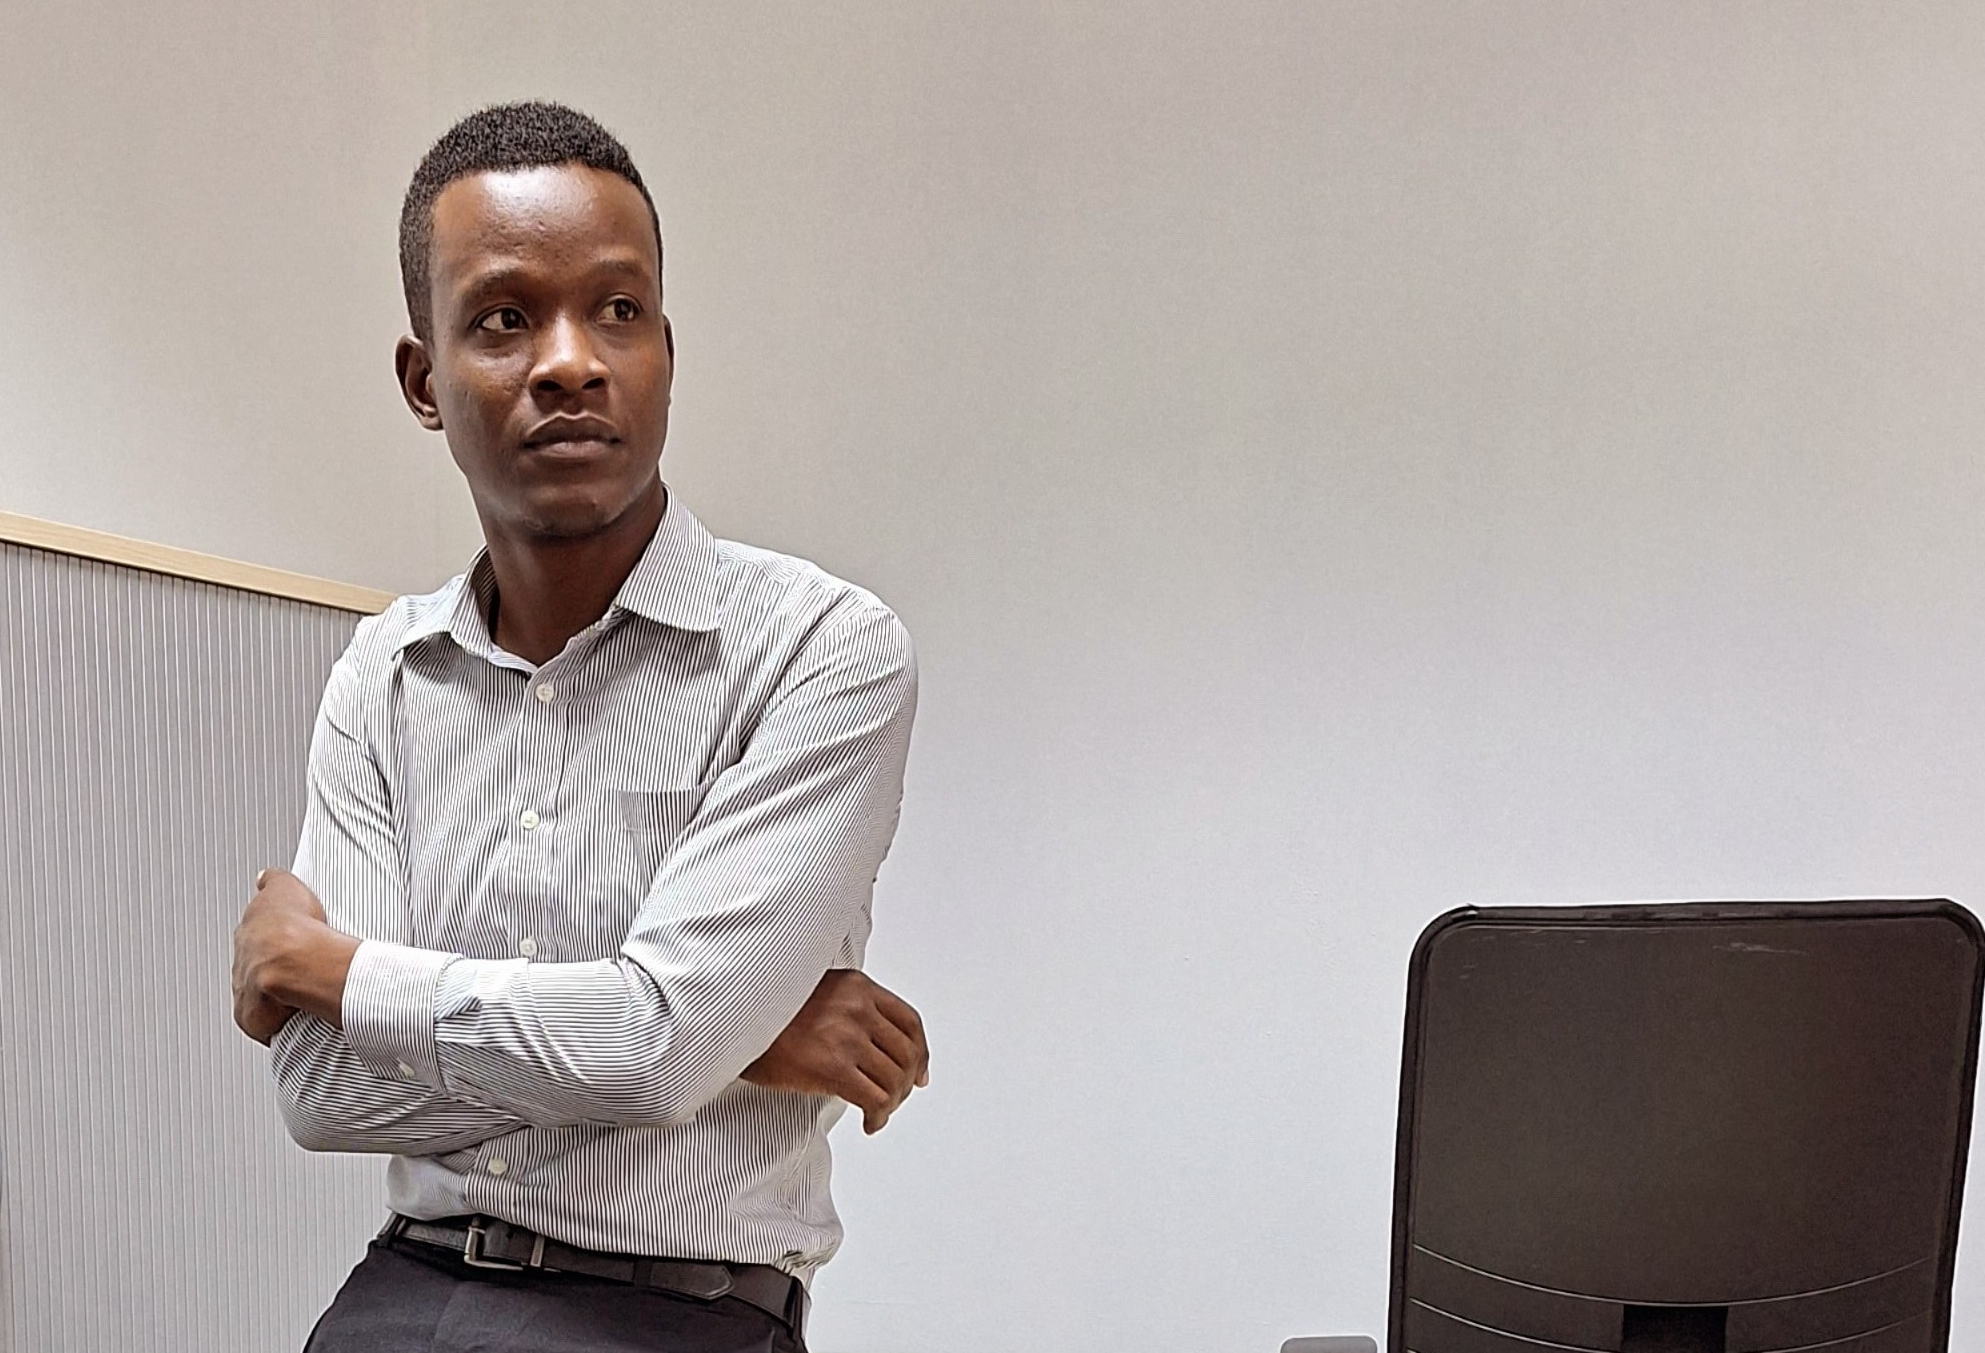
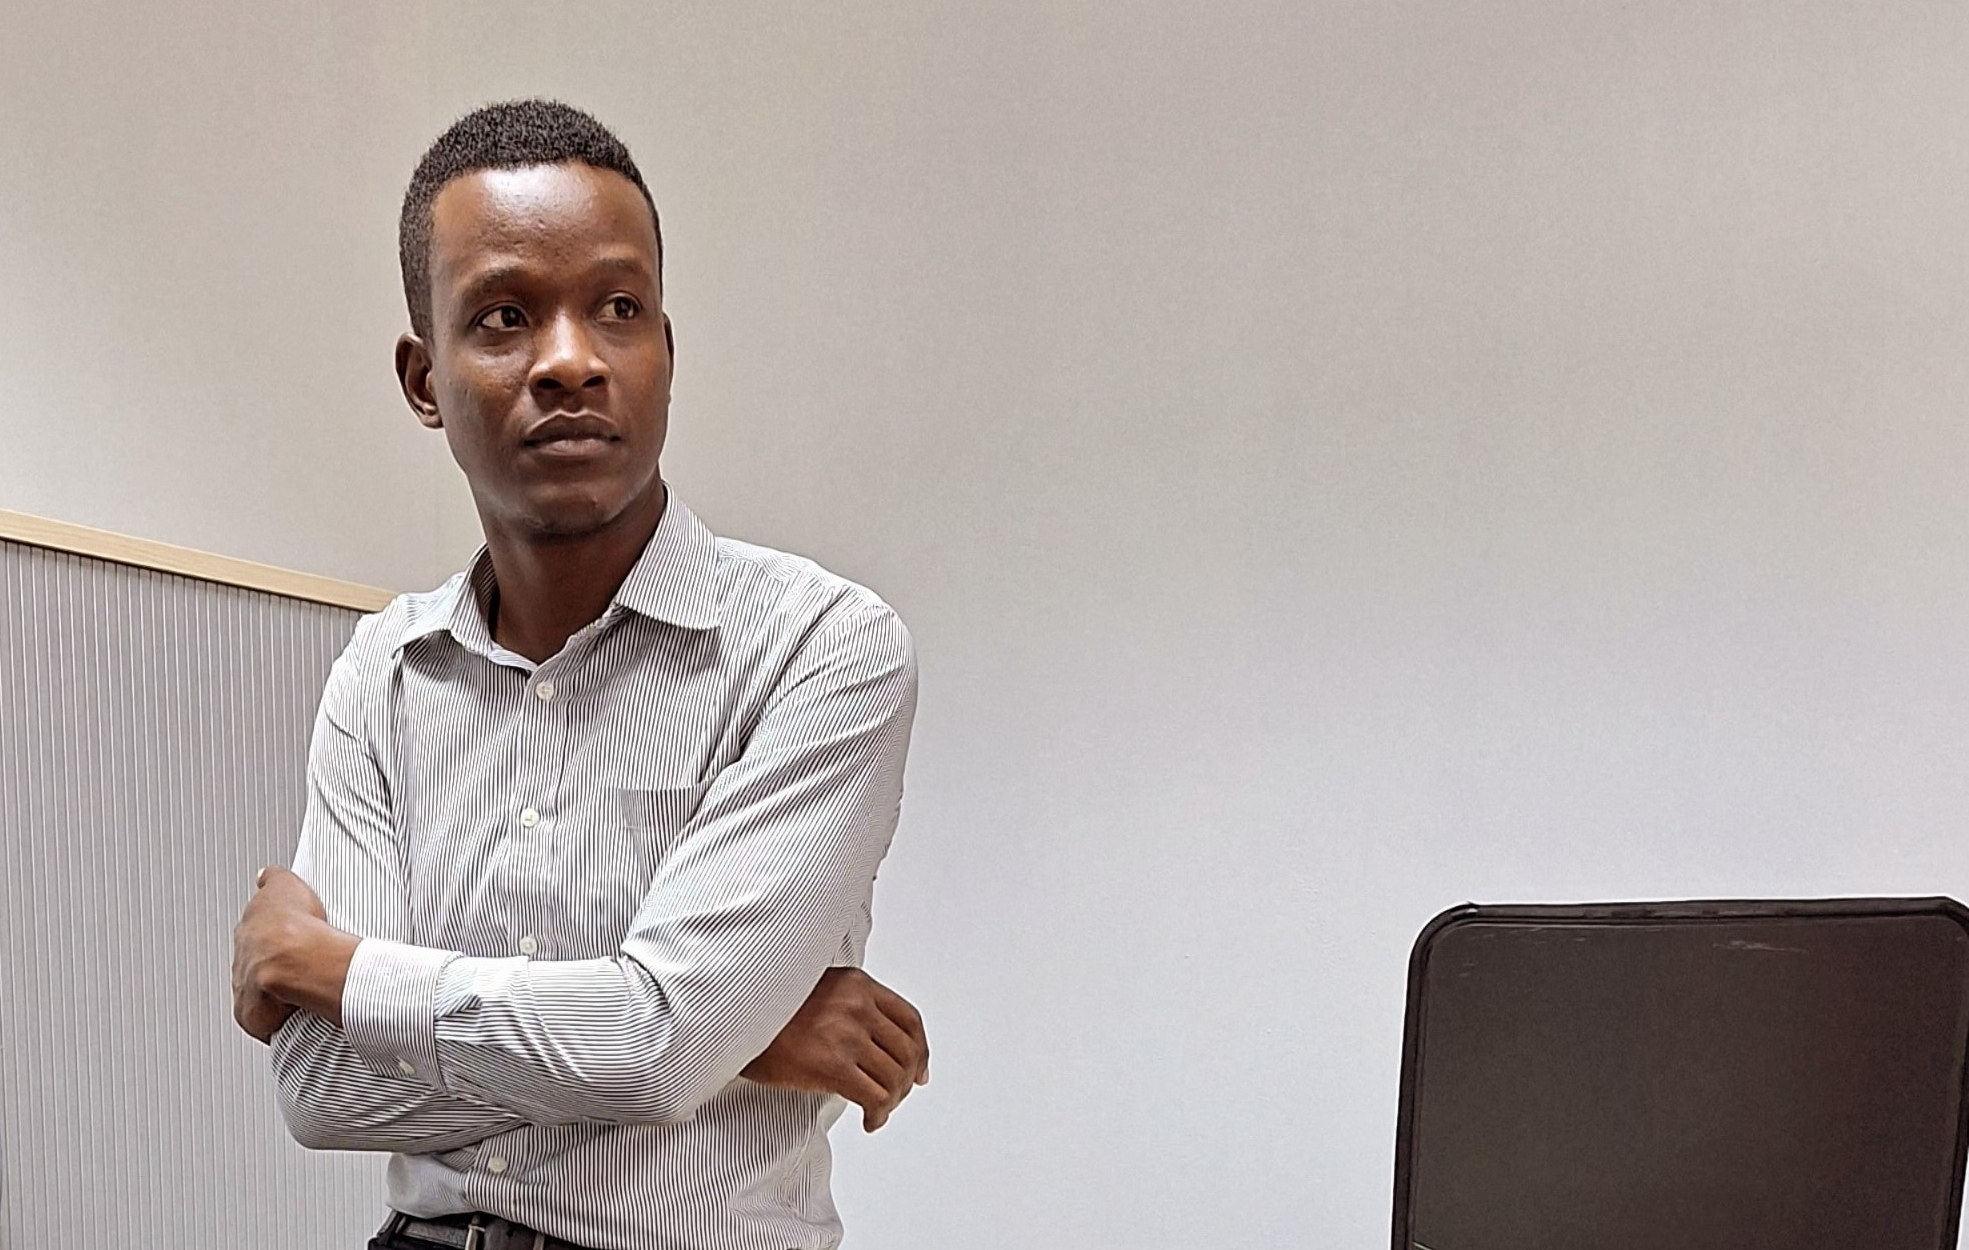
update

Changed region(s): [[0.0, 0.0624, 0.4957, 1.0], [0.6196, 0.6552, 1.0, 1.0]]

diff --git a/src/pages/MainApp/Home.jsx b/src/pages/MainApp/Home.jsx
@@ -12,7 +12,7 @@ import pic5 from '../../assets/product_handlingCroped.avif';
 import ReductionBrokenCoffee from '../../assets/pic1.avif';
 import WellOrganizedFirm from '../../assets/pic2.avif';
 import ProperFacilities from '../../assets/pic3.avif';
-import ProfesionalServices from '../../assets/pic4.avif';
+import ProfesionalServices from '../../assets/pic4.png';
 import ProductQuality from '../../assets/pic5.avif';
 import SecureTransaction from '../../assets/pic6.avif';
 
